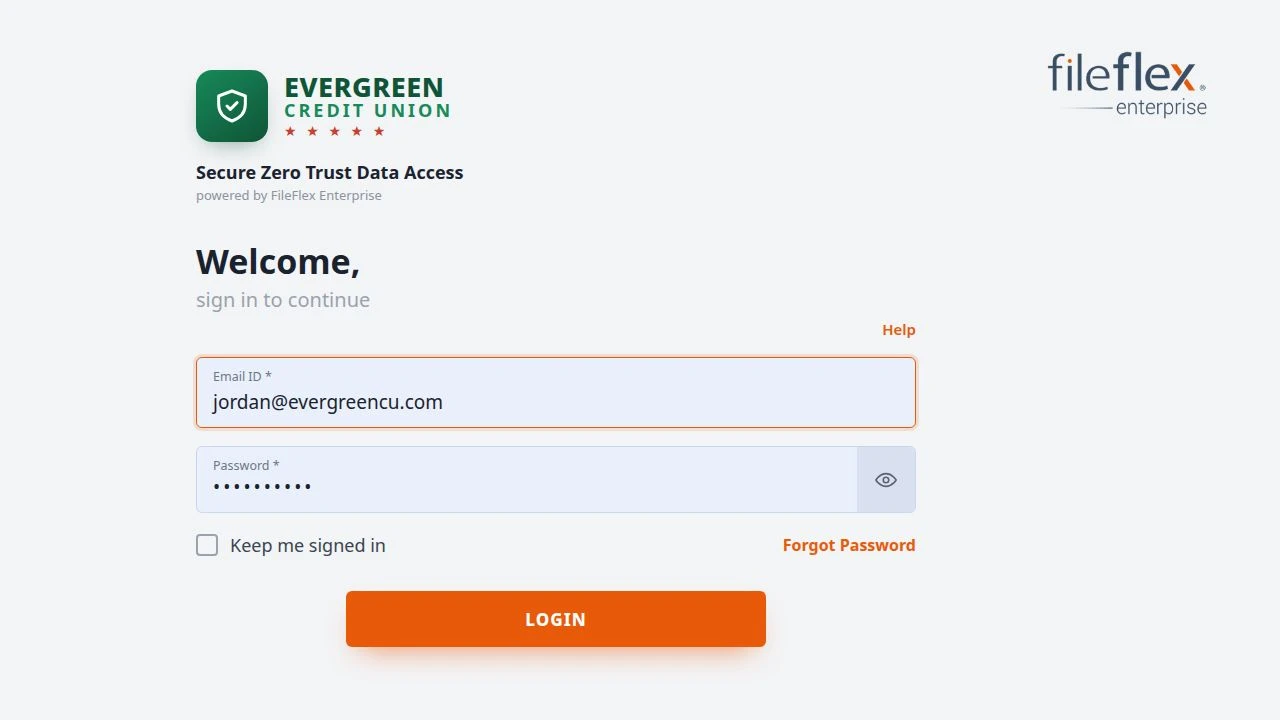
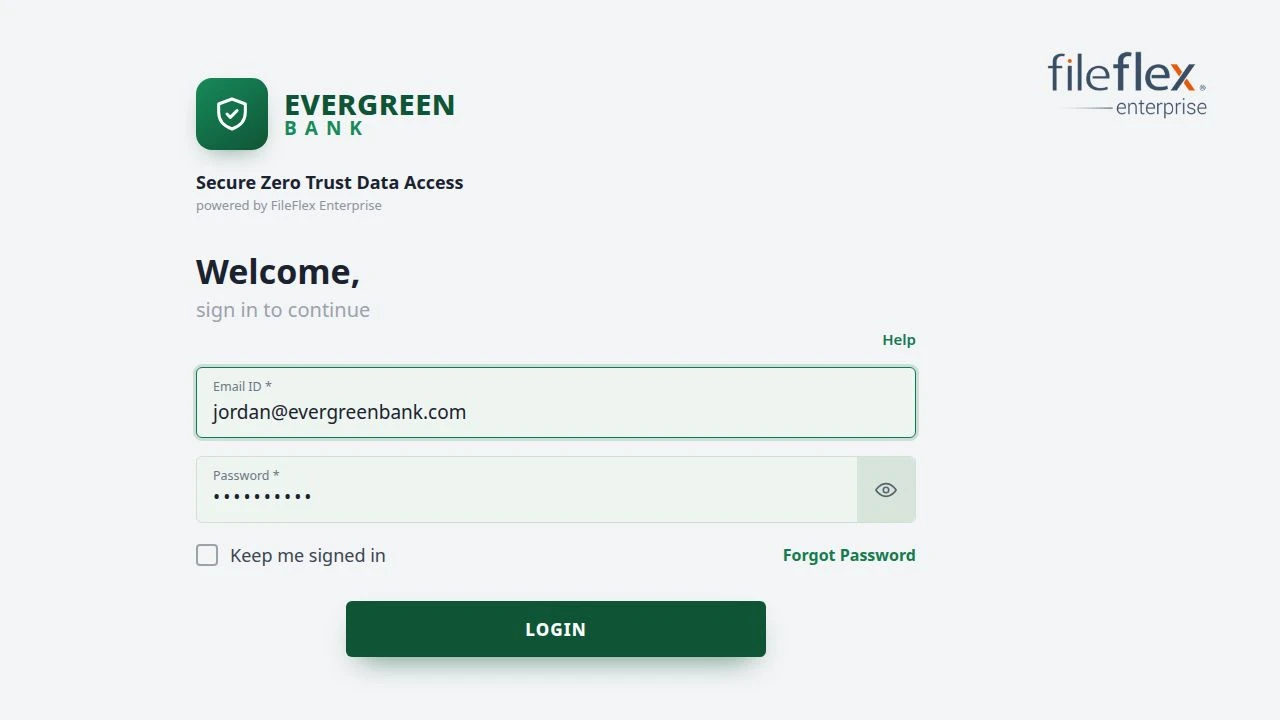
Update branding and visual accents for Evergreen Bank
Updates the website to reflect "Evergreen Bank" branding, applies green accent colors to the login screen, and adds orange numbering to the "Use Cases" images with corresponding CSS and accessibility adjustments.

Replit-Commit-Author: Agent
Replit-Commit-Session-Id: 9988bd6a-7af4-46df-818a-7f4167653439
Replit-Commit-Checkpoint-Type: full_checkpoint
Replit-Commit-Event-Id: 2d8ed6a6-00a6-443f-ab22-253392066b8e
Replit-Commit-Screenshot-Url: https://storage.googleapis.com/screenshot-production-us-central1/2b2fe10e-2a6e-4032-98e7-10d94dd01899/9988bd6a-7af4-46df-818a-7f4167653439/X7uMTux
Replit-Helium-Checkpoint-Created: true

diff --git a/src/styles/banking.css b/src/styles/banking.css
@@ -191,10 +191,24 @@
   transform: translateY(-2px);
 }
 .bk-uc__media {
+  position: relative;
   margin: 0 0 22px;
   aspect-ratio: 3 / 2;
   overflow: hidden;
   background: #eef1f6;
+}
+.bk-uc__num {
+  position: absolute;
+  top: 12px;
+  left: 12px;
+  z-index: 1;
+  font-size: 13px;
+  font-weight: 700;
+  letter-spacing: 0.08em;
+  color: var(--pf-orange);
+  background: rgba(14, 26, 43, 0.72);
+  padding: 5px 11px;
+  border-radius: 999px;
 }
 .bk-uc__media img {
   width: 100%;
